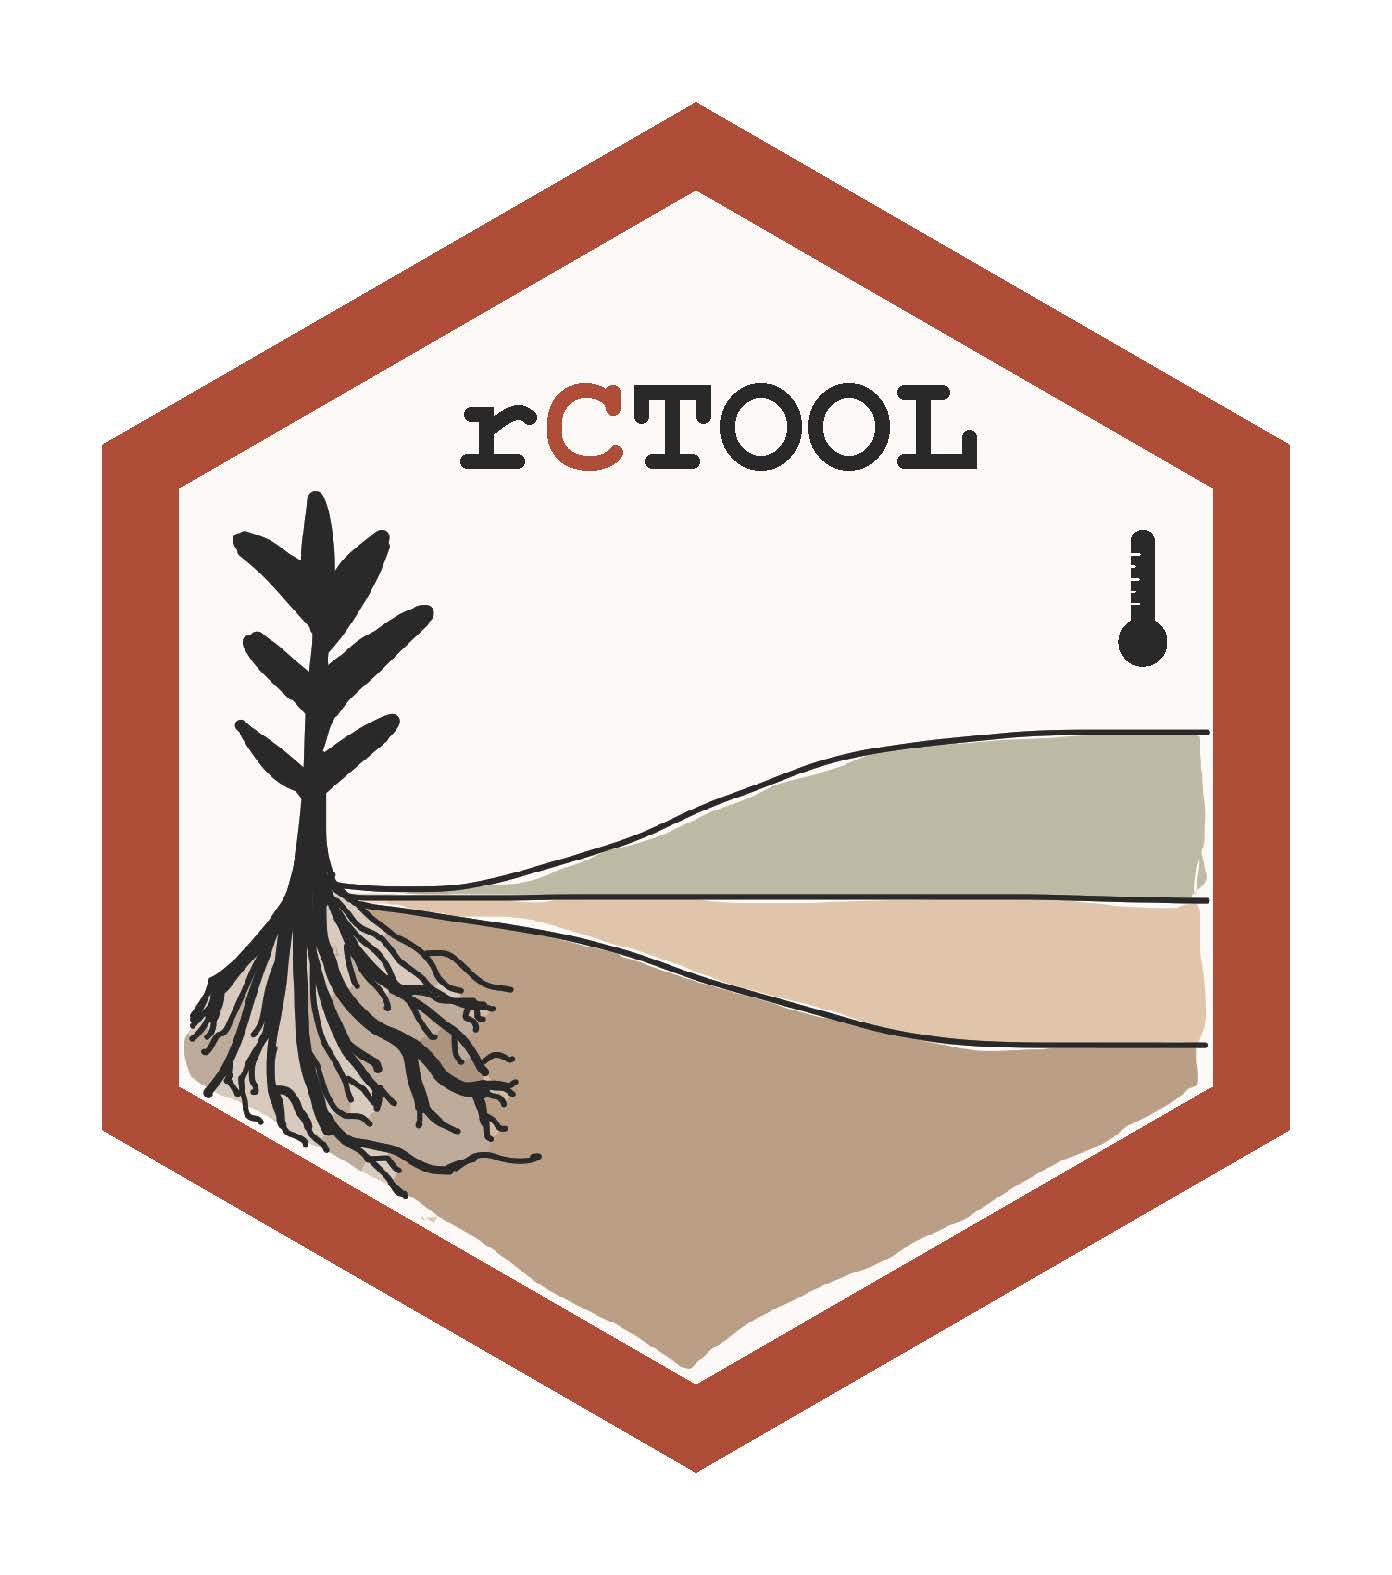
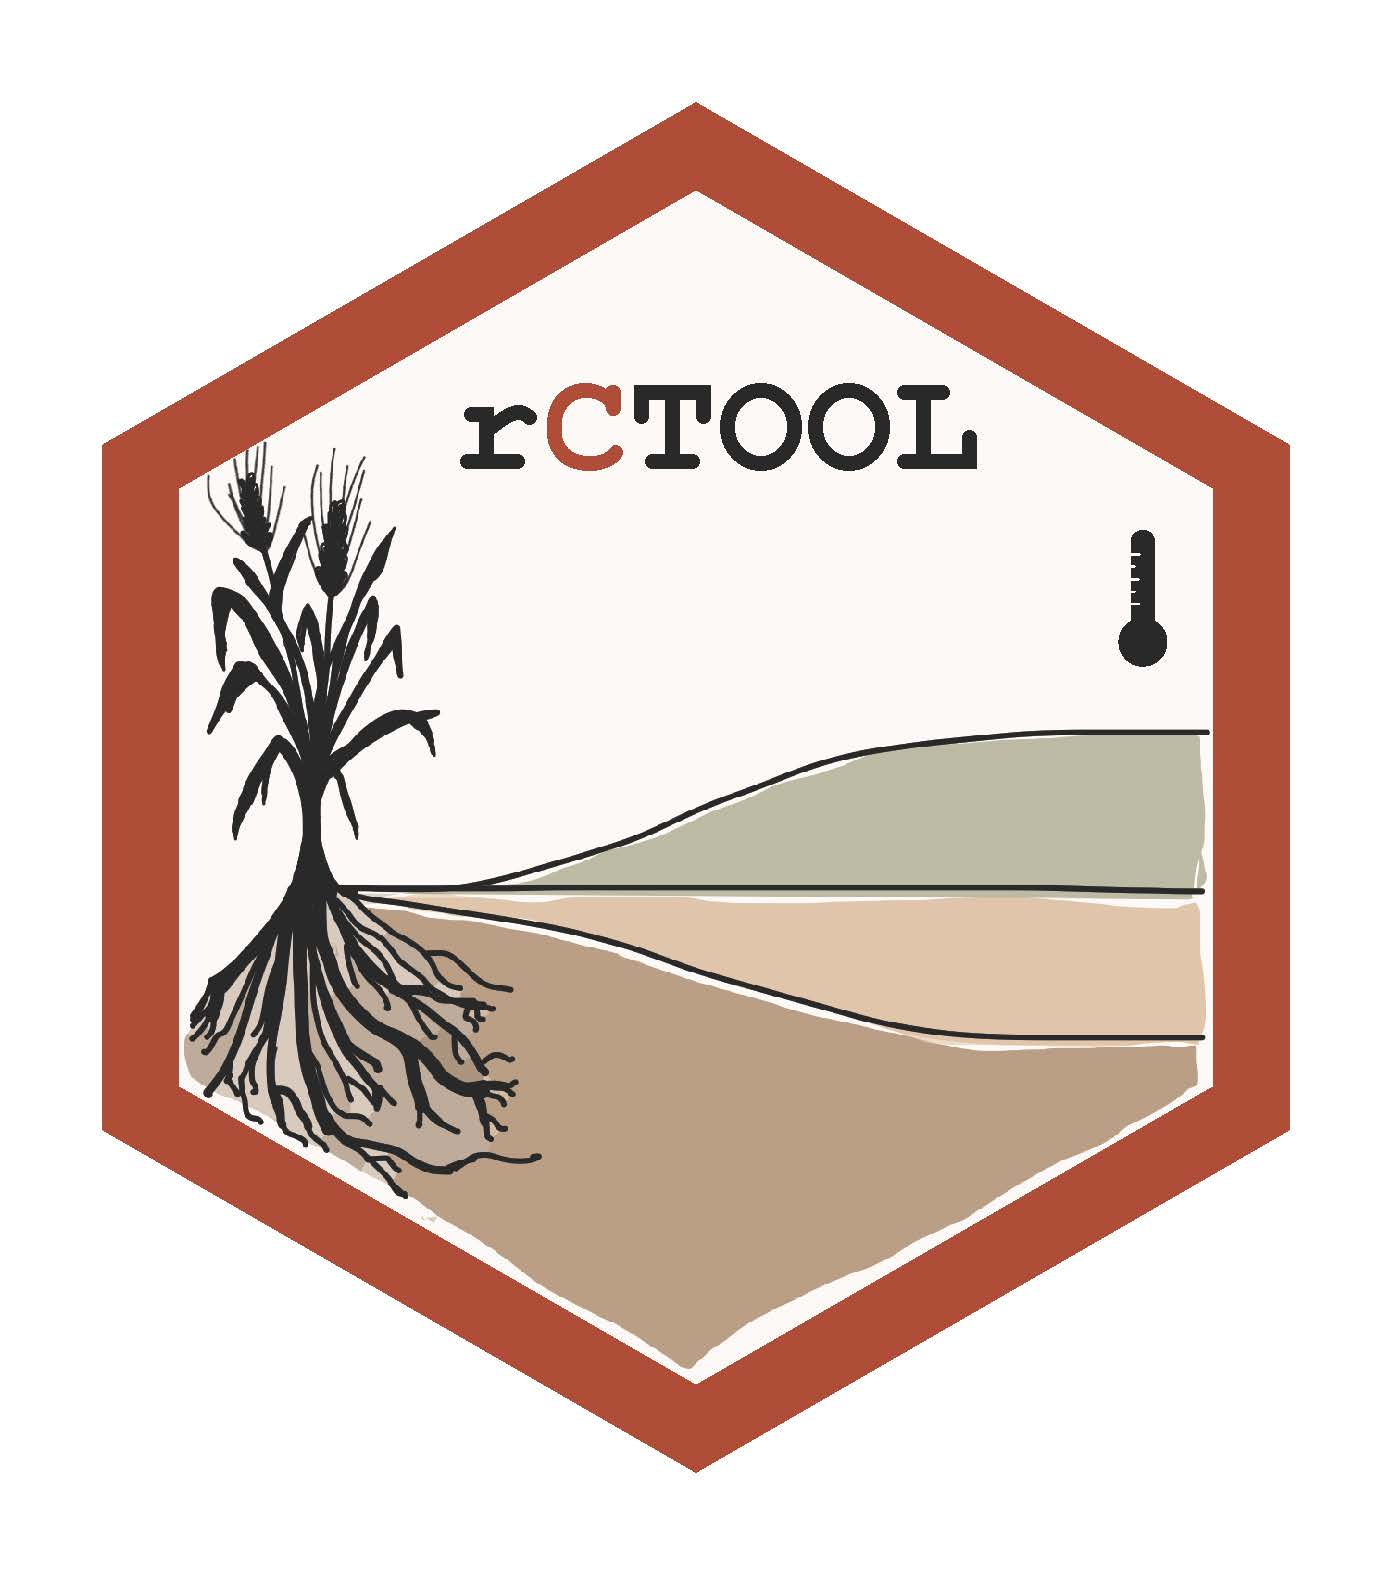
spring barley !!

Changed region(s): [[0.1545, 0.28, 0.3089, 0.56], [0.2471, 0.56, 0.8649, 0.6533], [0.6487, 0.6533, 0.8649, 0.6844]]

diff --git a/README.md b/README.md
@@ -167,26 +167,20 @@ data('scenario_temperature') # this is equivalent to set_monthly_temperature_dat
 The scenario data set contains three different C input estimation for
 the different scenarios:
 
-For the football court scenario we assume a well-maintained stomped
-ryegrass cover,
+- For the football court scenario we assume a well-maintained stomped
+  ryegrass cover,
 
-for the organic dairy farming we assume a crop rotation with grass,
-maize and cereals for happy milking cows,
+- for the organic dairy farming we assume a crop rotation with grass,
+  maize and cereals for happy milking cows,
 
-and finally for the pet cemetery we assume a less healthily reygrass and
-a certain number of beloved dogs and cats from Viborg municipality
-burred in the subsoil.
+- and finally for the pet cemetery we assume a less healthily reygrass
+  and a certain number of beloved dogs and cats from Viborg municipality
+  burred in the subsoil.
 
 Now we will play with rCTOOL to explore the implications in terms of
 soil C dynamics.
 
 First lets take a look on the C inputs distribution:
-
-    #> Warning: Using `size` aesthetic for lines was deprecated in ggplot2 3.4.0.
-    #> ℹ Please use `linewidth` instead.
-    #> This warning is displayed once every 8 hours.
-    #> Call `lifecycle::last_lifecycle_warnings()` to see where this warning was
-    #> generated.
 
 <img src="man/figures/README-unnamed-chunk-10-1.png" width="100%" />
 
